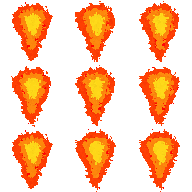
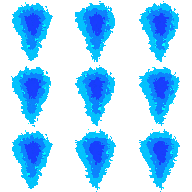
add different bullets images for player and enemy

diff --git a/src/game/bullet.h b/src/game/bullet.h
@@ -18,7 +18,15 @@ public:
     {
         window = window_state.window;
         screen = window_state.screen;
-        image = new Image(file_name, window_state.renderer);
+
+        if (strcmp(owner, "player") == 0)
+        {
+            image = new Image(player_bullet_sprite, window_state.renderer);
+        }
+        else
+        {
+            image = new Image(enemy_bullet_sprite, window_state.renderer);
+        }
 
         _init_src_size();
         _init_dest_size();
@@ -63,7 +71,8 @@ public:
 private:
     SDL_Window *window;
     float speed = 0.0008;
-    const char *file_name = "assets/images/bullets/player_bullet.png";
+    const char *player_bullet_sprite = "assets/images/bullets/player_bullet.png";
+    const char *enemy_bullet_sprite = "assets/images/bullets/enemy_bullet.png";
     float relative_width = 0.03;
     int frame_size = 64;
 
